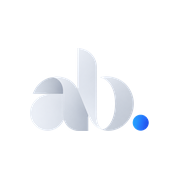
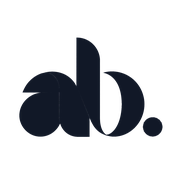
fix(ui): keep navigation visible and use monochrome branding

Changed region(s): [[0.0833, 0.1944, 0.9167, 0.7778]]

diff --git a/src/app/site-nav.component.ts b/src/app/site-nav.component.ts
@@ -11,7 +11,7 @@ import { PROFILE, TOC, UI, lang, setLanguage, type Lang } from "../lib/site";
   standalone: true,
   imports: [IconComponent, RouterLink, ThemeToggleComponent],
   template: `
-    <header class="site-nav" [class.is-scrolled]="scrolled()" [class.is-hidden]="hidden() && !menuOpen()" [class.is-open]="menuOpen()">
+    <header class="site-nav" [class.is-scrolled]="scrolled()" [class.is-open]="menuOpen()">
       <div class="container-x site-nav-inner">
         <div class="relative">
           <a
@@ -23,7 +23,7 @@ import { PROFILE, TOC, UI, lang, setLanguage, type Lang } from "../lib/site";
             [attr.aria-haspopup]="'menu'"
             [attr.aria-expanded]="brandMenu()"
           >
-            <img class="dark:hidden" src="/brand/ab-monogram-160.webp" alt="" width="160" height="111" />
+            <img class="dark:hidden" src="/brand/ab-monogram-black.webp" alt="" width="160" height="111" />
             <img class="hidden dark:block" src="/brand/ab-monogram-white-160.webp" alt="" width="160" height="111" />
             <span class="brand-wordmark hidden xl:inline" aria-hidden="true">{{ profile.name }}</span>
             <span class="sr-only">{{ profile.name }} — home</span>
@@ -128,8 +128,6 @@ export class SiteNavComponent implements OnInit {
   protected readonly lang = lang;
   protected readonly scrolled = signal(false);
   protected readonly menuOpen = signal(false);
-  /** Tucks away while reading down, comes back on any scroll up. */
-  protected readonly hidden = signal(false);
   private lastY = 0;
   private readonly appRef = inject(ApplicationRef);
   private readonly host = inject<ElementRef<HTMLElement>>(ElementRef);
@@ -157,7 +155,6 @@ export class SiteNavComponent implements OnInit {
     this.scrolled.set(y > 8);
     if (this.brandMenu() && Math.abs(y - this.lastY) > 24) this.closeBrandMenu(false);
     if (Math.abs(y - this.lastY) < 6) return;
-    this.hidden.set(y > this.lastY && y > 320);
     this.lastY = y;
   }
 
@@ -177,7 +174,6 @@ export class SiteNavComponent implements OnInit {
     event.preventDefault();
     this.copied.set(null);
     this.brandMenu.set(true);
-    this.hidden.set(false);
     // Focus the first item once it renders, so the keyboard path works too.
     setTimeout(() => this.items()[0]?.focus());
   }

diff --git a/src/app/intro.component.ts b/src/app/intro.component.ts
@@ -78,7 +78,7 @@ import { CONTRIBUTIONS, EDUCATION, PROFILE, STACK, UI, lang } from "../lib/site"
           <div class="hero-mark" aria-hidden="true">
             <!-- Soft mark on light; the white variant on dark, as the brand asks for dark sections. -->
             <span class="hero-mark-float">
-              <img class="hero-mark-img dark:hidden" src="/brand/ab-monogram.webp" alt="" width="960" height="666" fetchpriority="high" />
+              <img class="hero-mark-img dark:hidden" src="/brand/ab-monogram-black.webp" alt="" width="960" height="666" fetchpriority="high" />
               <img class="hero-mark-img hidden dark:block" src="/brand/ab-monogram-white.webp" alt="" width="480" height="333" />
             </span>
             <span class="hero-mark-wordmark brand-wordmark">{{ profile.name }}</span>

diff --git a/src/styles.css b/src/styles.css
@@ -517,10 +517,6 @@ html.theme-vt::view-transition-new(root) {
     transition: transform var(--motion-emphasis) var(--ease-out-quart), background-color var(--motion-emphasis) var(--ease-out-quart);
   }
 
-  .site-nav.is-hidden {
-    transform: translateY(-100%);
-  }
-
   .site-nav.is-open {
     background: var(--canvas);
   }
@@ -3077,7 +3073,21 @@ html.theme-vt::view-transition-new(root) {
     padding-bottom: 6rem;
   }
 
+  .page-toc {
+    display: none;
+  }
+
   @media (min-width: 1024px) {
+    .page-toc {
+      display: block;
+      position: sticky;
+      top: 6rem;
+      align-self: start;
+      min-width: 0;
+      max-height: calc(100dvh - 7rem);
+      overflow-y: auto;
+    }
+
     .page-shell {
       grid-template-columns: 14rem minmax(0, 1fr);
       gap: 4rem;

diff --git a/src/app/contact.component.ts b/src/app/contact.component.ts
@@ -16,7 +16,7 @@ const LOCAL_TIME = new Intl.DateTimeFormat("en-GB", {
   template: `
     <section id="contact" class="container-x section scroll-mt-16">
       <div class="reveal-on-scroll"><div class="card contact-panel" appSpotlight>
-                <img class="contact-panel-mark" src="/brand/ab-monogram.webp" alt="" width="960" height="666" loading="lazy" aria-hidden="true" />
+                <img class="contact-panel-mark" src="/brand/ab-monogram-black.webp" alt="" width="960" height="666" loading="lazy" aria-hidden="true" />
 
         <p class="eyebrow">
           <span class="eyebrow-index">05</span>

diff --git a/src/app/toc.component.ts b/src/app/toc.component.ts
@@ -6,9 +6,10 @@ import type { TocItem } from "../lib/site.types";
 @Component({
   selector: "app-toc",
   standalone: true,
+  host: { class: "page-toc" },
   template: `
-    <aside class="hidden lg:block">
-      <div class="sticky top-24">
+    <aside>
+      <div>
         <p class="eyebrow"><span class="eyebrow-rule" aria-hidden="true"></span>{{ lang() === 'it' ? 'In questa pagina' : 'On this page' }}</p>
         <nav [attr.aria-label]="lang() === 'it' ? 'In questa pagina' : 'On this page'" class="mt-4 flex flex-col gap-1">
           @for (item of items(); track item.href) {

diff --git a/src/lib/brand.ts b/src/lib/brand.ts
@@ -104,8 +104,8 @@ export const BRAND_ASSETS: BrandAsset[] = [
   },
 ];
 
-export const LOGO_SVG = "/brand/ab-soft-minimal-monogram.svg";
-export const WORDMARK_SVG = "/brand/ab-soft-minimal-wordmark.svg";
+export const LOGO_SVG = "/brand/ab-soft-minimal-monogram-black.svg";
+export const WORDMARK_SVG = "/brand/ab-soft-minimal-wordmark-black.svg";
 
 /**
  * Copies an SVG file's markup to the clipboard. The fetch happens inside a ClipboardItem promise
